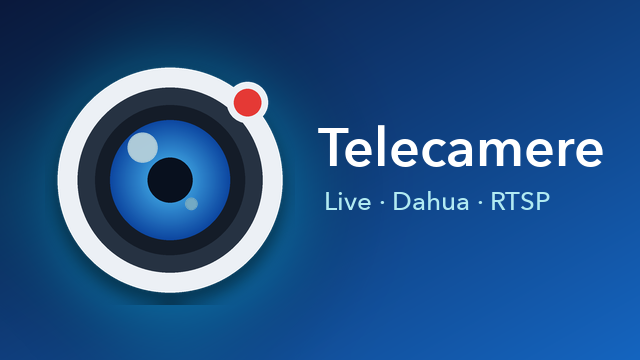
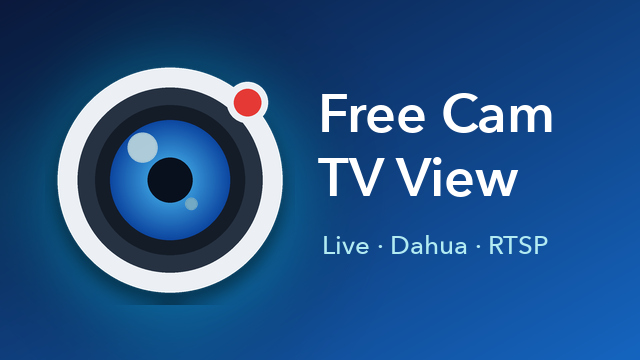
Rinominata in Free Cam TV View — versione 1.0.1

Changed region(s): [[0.5, 0.2444, 0.9688, 0.5806], [0.5, 0.6417, 0.875, 0.7028]]

diff --git a/app/src/main/java/it/pcwebagency/telecamere/Updater.java b/app/src/main/java/it/pcwebagency/telecamere/Updater.java
@@ -118,7 +118,7 @@ public final class Updater {
         if (Build.VERSION.SDK_INT >= 26 && !activity.getPackageManager().canRequestPackageInstalls()) {
             new AlertDialog.Builder(activity)
                     .setTitle("Permesso necessario")
-                    .setMessage("Per installare l'aggiornamento consenti a «Telecamere» di installare app "
+                    .setMessage("Per installare l'aggiornamento consenti a «Free Cam TV View» di installare app "
                             + "(Fire TV: Impostazioni → La mia Fire TV → Opzioni sviluppatore → Installa app sconosciute), "
                             + "poi riprova.")
                     .setPositiveButton("Apri impostazioni", (d, w) -> {
@@ -139,7 +139,7 @@ public final class Updater {
             try {
                 File dir = new File(activity.getCacheDir(), "updates");
                 if (!dir.isDirectory() && !dir.mkdirs()) throw new IOException("Cartella non disponibile");
-                File apk = new File(dir, "Telecamere-" + r.version + ".apk");
+                File apk = new File(dir, "FreeCamTVView-" + r.version + ".apk");
                 HttpURLConnection c = open(r.apkUrl);
                 if (c.getResponseCode() != 200) throw new IOException("Download HTTP " + c.getResponseCode());
                 try (InputStream in = c.getInputStream(); FileOutputStream out = new FileOutputStream(apk)) {
@@ -190,7 +190,7 @@ public final class Updater {
         HttpURLConnection c = (HttpURLConnection) new URL(url).openConnection();
         c.setConnectTimeout(8000);
         c.setReadTimeout(30000);
-        c.setRequestProperty("User-Agent", "Telecamere/" + BuildConfig.VERSION_NAME);
+        c.setRequestProperty("User-Agent", "FreeCamTVView/" + BuildConfig.VERSION_NAME);
         c.setInstanceFollowRedirects(true);
         return c;
     }

diff --git a/art/genera_icone.py b/art/genera_icone.py
@@ -1,4 +1,4 @@
-"""Genera icona e banner dell'app Telecamere (PC Web Agency).
+"""Genera icona e banner dell'app Free Cam TV View (PC Web Agency).
 
 Uso: python3 art/genera_icone.py   (dalla cartella del progetto, richiede Pillow)
 """
@@ -83,8 +83,9 @@ def banner(w=640, h=360):
     d = ImageDraw.Draw(bg)
     title = ImageFont.truetype("/System/Library/Fonts/Avenir Next.ttc", 54, index=2)   # Demi Bold
     sub = ImageFont.truetype("/System/Library/Fonts/Avenir Next.ttc", 26, index=5)     # Medium
-    d.text((318, 112), "Telecamere", font=title, fill="white")
-    d.text((324, 184), "Live · Dahua · RTSP", font=sub, fill=(178, 235, 242))
+    d.text((318, 78), "Free Cam", font=title, fill="white")
+    d.text((318, 142), "TV View", font=title, fill="white")
+    d.text((322, 228), "Live · Dahua · RTSP", font=sub, fill=(178, 235, 242))
     return bg
 
 

diff --git a/app/src/main/java/it/pcwebagency/telecamere/SettingsActivity.java b/app/src/main/java/it/pcwebagency/telecamere/SettingsActivity.java
@@ -360,7 +360,7 @@ public class SettingsActivity extends Activity {
                 + "github.com/" + BuildConfig.GITHUB_REPO + "\n\n"
                 + "Controllo automatico degli aggiornamenti: " + (auto ? "attivo" : "disattivato");
         new AlertDialog.Builder(this)
-                .setTitle("Telecamere")
+                .setTitle("Free Cam TV View")
                 .setMessage(msg)
                 .setPositiveButton("Controlla aggiornamenti", (d, w) -> Updater.check(this, true))
                 .setNeutralButton(auto ? "Disattiva controllo automatico" : "Attiva controllo automatico", (d, w) -> {

diff --git a/app/src/main/java/it/pcwebagency/telecamere/App.java b/app/src/main/java/it/pcwebagency/telecamere/App.java
@@ -14,7 +14,7 @@ public class App extends Application {
         Thread.UncaughtExceptionHandler system = Thread.getDefaultUncaughtExceptionHandler();
         Thread.setDefaultUncaughtExceptionHandler((thread, e) -> {
             if (thread.getName().startsWith("ExoPlayer:")) {
-                Log.e("Telecamere", "Errore nel player ignorato", e);
+                Log.e("FreeCamTVView", "Errore nel player ignorato", e);
                 return;
             }
             if (system != null) system.uncaughtException(thread, e);

diff --git a/README.md b/README.md
@@ -1,8 +1,8 @@
 <p align="center">
-  <img src="art/banner.png" alt="Telecamere" width="480">
+  <img src="art/banner.png" alt="Free Cam TV View" width="480">
 </p>
 
-<h1 align="center">Telecamere</h1>
+<h1 align="center">Free Cam TV View</h1>
 
 <p align="center">
   Visualizzazione live di telecamere IP, NVR e videocitofoni Dahua su Android TV e Amazon Fire TV.<br>
@@ -11,9 +11,9 @@
 
 ---
 
-**Telecamere** è un'app per Android TV e Fire TV, leggera e pensata per il telecomando, che mostra in tempo reale le telecamere della rete locale o di sedi remote. Riconosce automaticamente i dispositivi Dahua (telecamere IP, NVR/XVR, videocitofoni) e accetta qualsiasi flusso RTSP standard.
+**Free Cam TV View** è un'app per Android TV e Fire TV, leggera e pensata per il telecomando, che mostra in tempo reale le telecamere della rete locale o di sedi remote. Riconosce automaticamente i dispositivi Dahua (telecamere IP, NVR/XVR, videocitofoni) e accetta qualsiasi flusso RTSP standard.
 
-> *English summary — Telecamere is a lightweight Android TV / Fire TV app to watch Dahua IP cameras, NVRs and video intercoms (plus any RTSP stream) live, with automatic network discovery, camera groups, remote-friendly controls and a door-open button for Dahua VTO intercoms.*
+> *English summary — Free Cam TV View is a lightweight Android TV / Fire TV app to watch Dahua IP cameras, NVRs and video intercoms (plus any RTSP stream) live, with automatic network discovery, camera groups, remote-friendly controls and a door-open button for Dahua VTO intercoms.*
 
 ## Funzionalità
 
@@ -56,7 +56,7 @@ Scarica l'APK dalla pagina [Releases](../../releases).
 2. Dal computer:
    ```bash
    adb connect IP_DELLA_TV:5555        # conferma "Consenti" sulla TV
-   adb install -r Telecamere-1.0.0.apk
+   adb install -r FreeCamTVView-1.0.1.apk
    ```
 
 ### Senza computer
@@ -65,7 +65,7 @@ Abilita *App da origini sconosciute* e installa l'APK con l'app **Downloader** o
 
 ### Aggiornamenti
 
-L'app controlla da sola le nuove versioni e propone l'aggiornamento all'avvio. Il controllo si può fare anche a mano da *≡ Menu → Informazioni e aggiornamenti*. Al primo aggiornamento Android chiede di consentire a «Telecamere» l'installazione di app (Fire TV: *Opzioni sviluppatore → Installa app sconosciute*).
+L'app controlla da sola le nuove versioni e propone l'aggiornamento all'avvio. Il controllo si può fare anche a mano da *≡ Menu → Informazioni e aggiornamenti*. Al primo aggiornamento Android chiede di consentire a «Free Cam TV View» l'installazione di app (Fire TV: *Opzioni sviluppatore → Installa app sconosciute*).
 
 ## Utilizzo
 
@@ -103,7 +103,7 @@ Esempio per router MikroTik:
 /ip firewall nat add chain=dstnat in-interface-list=WAN protocol=tcp \
     src-address=IP_PUBBLICO_SEDE dst-port=47554 \
     action=dst-nat to-addresses=IP_LOCALE_NVR to-ports=554 \
-    comment="RTSP NVR per app Telecamere"
+    comment="RTSP NVR per app Free Cam TV View"
 ```
 
 Nell'app si indicano il nome host DDNS e la porta esterna (es. `47554`). L'import automatico dei canali NVR funziona solo in rete locale: da remoto i canali si aggiungono manualmente.

diff --git a/CHANGELOG.md b/CHANGELOG.md
@@ -2,6 +2,11 @@
 
 Tutte le modifiche rilevanti del progetto sono documentate in questo file.
 
+## [1.0.1] — 2026-11-03
+
+### Modifiche
+- L'app si chiama ora **Free Cam TV View** (nome, banner e menu Informazioni)
+
 ## [1.0.0] — 2026-11-03
 
 Prima versione pubblica.
